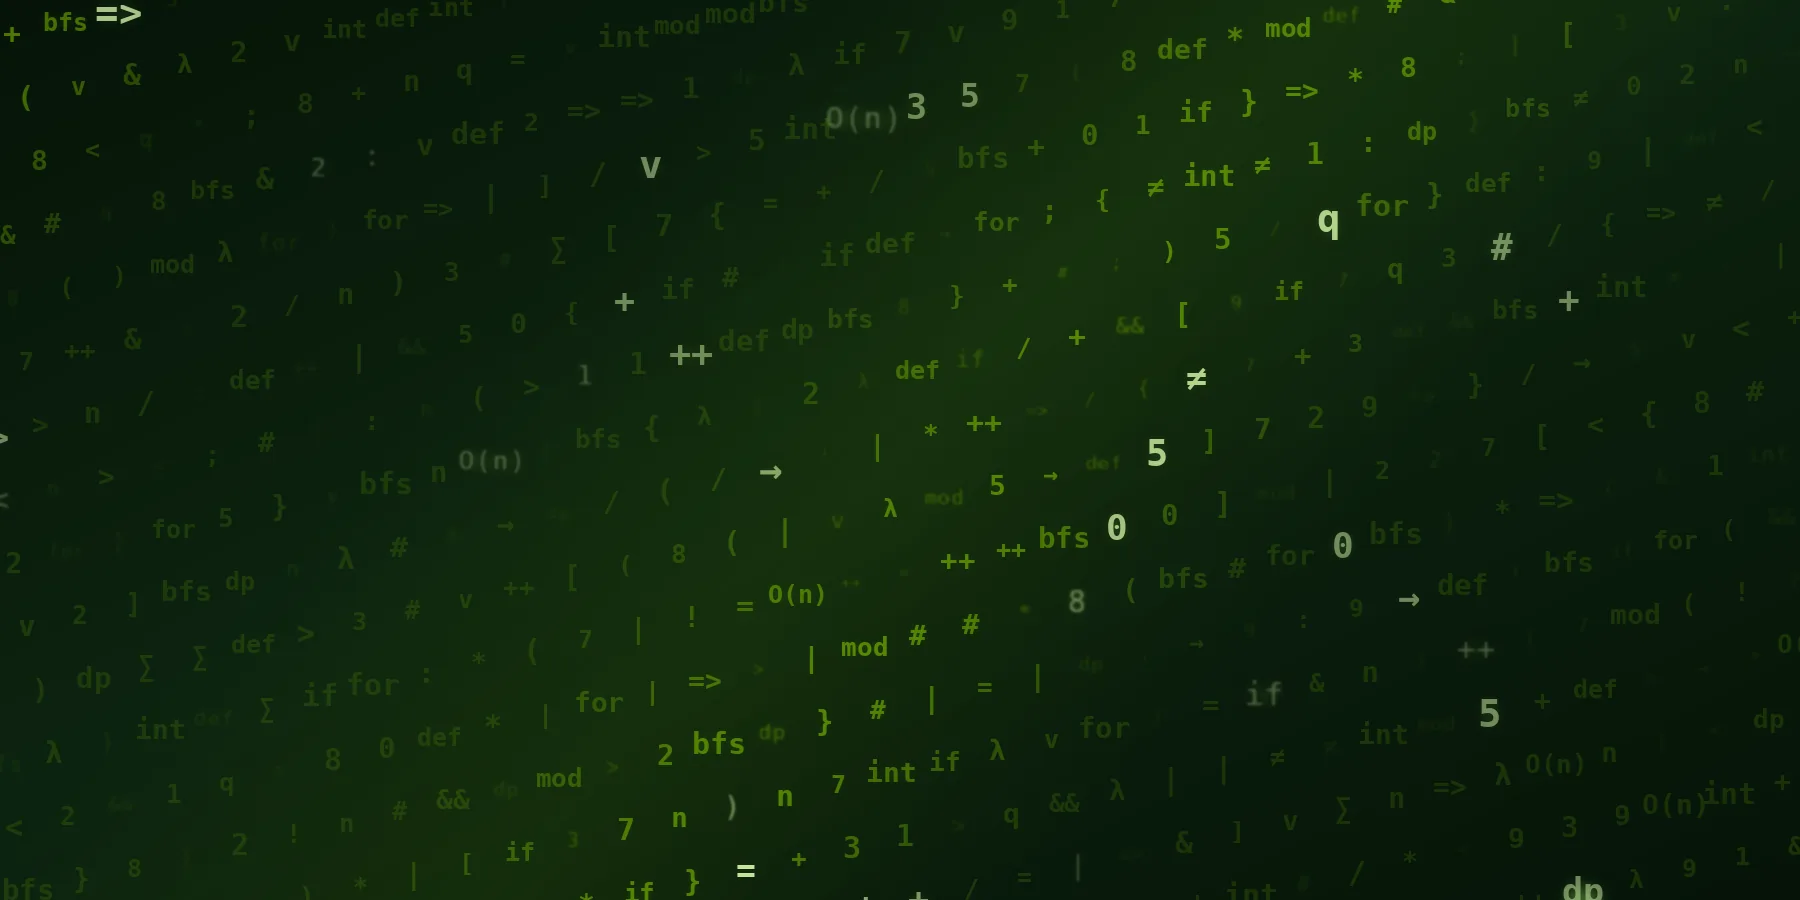
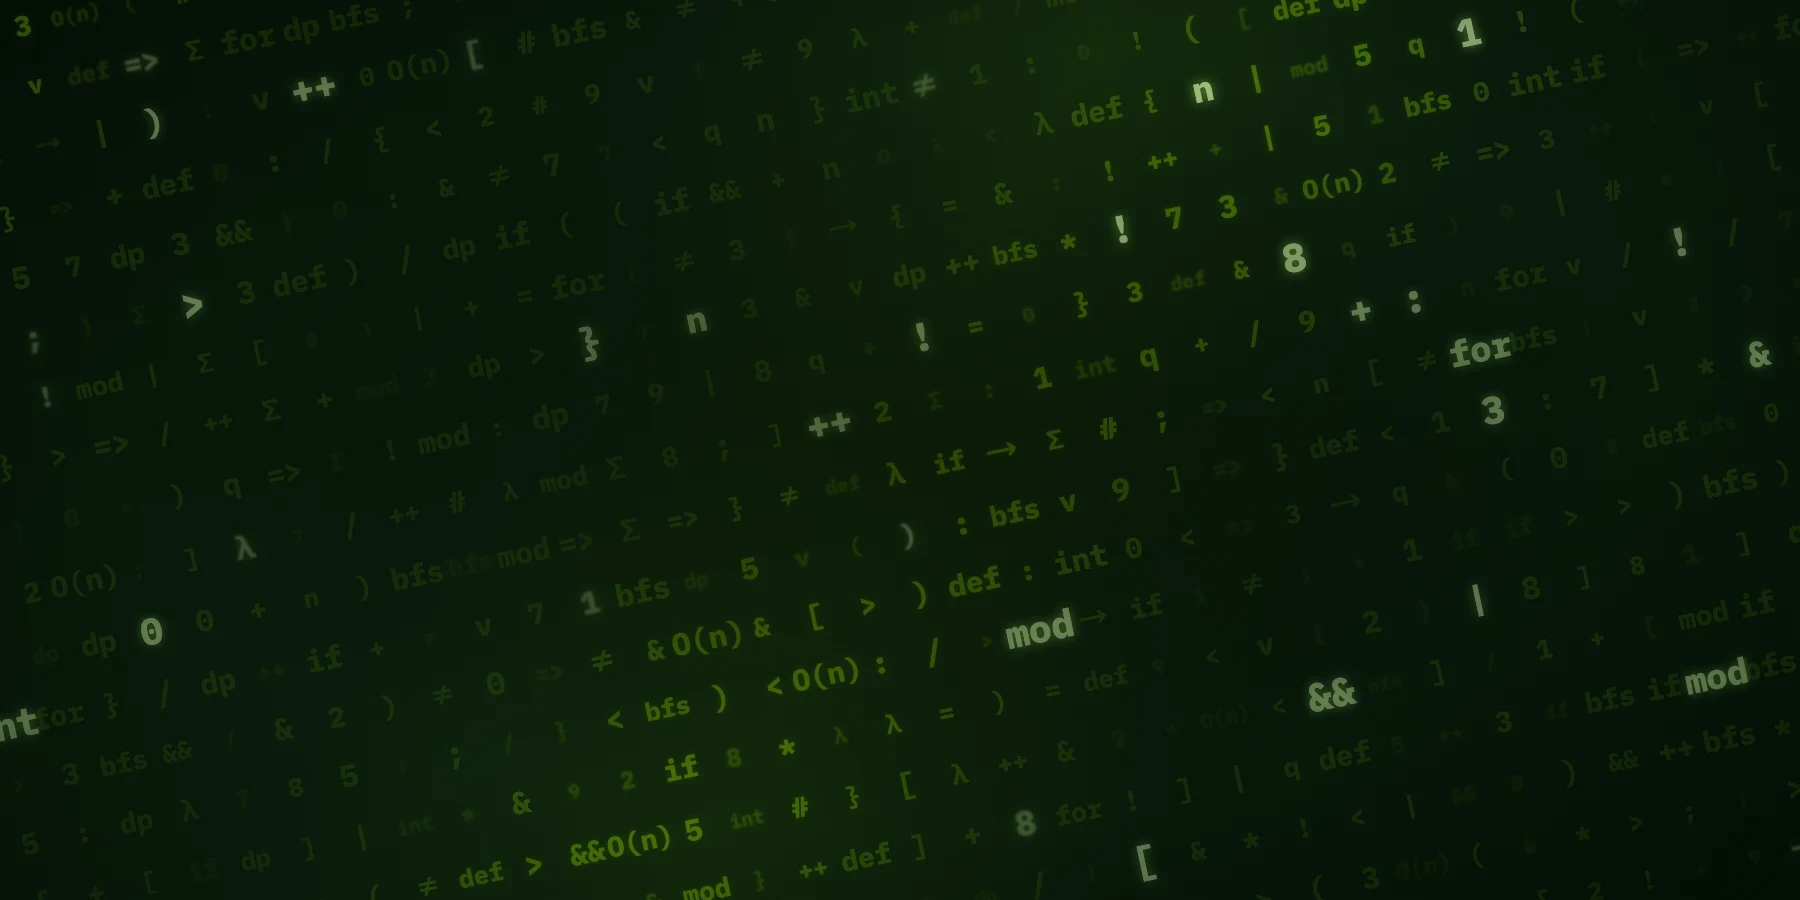
preview: 畫布版晶格底圖、字重 900、學校補齊

diff --git a/src/styles/global.css b/src/styles/global.css
@@ -214,7 +214,7 @@ p:not(.hero-title):not(.hero-status) a,.prose li a,.meta a{text-decoration:under
 .hero-photo-body .kicker{font-family:var(--font-mono);letter-spacing:.18em;text-transform:uppercase;font-size:var(--fs-2);color:rgba(255,255,255,.8);margin:0 0 8px}
 .hero-photo-body .hero-title{font-size:60px;color:#fff;margin-bottom:16px;text-shadow:0 2px 12px rgba(0,0,0,.5)}
 .hero-photo-body .hero-title a,.hero-photo-body .hero-title .slot{color:#fff}
-.hero-title .ytp{font-family:var(--font-mono);font-weight:700;letter-spacing:-.02em;margin-right:.12em}
+.hero-title .ytp{font-family:var(--font-mono);font-weight:700;letter-spacing:.06em;margin-right:.05em}
 .hero-photo-body .hero-title .slot{color:var(--logo-lime)}
 .hero-photo-body .hero-status{color:#fff;font-size:var(--fs-5);text-shadow:0 1px 8px rgba(0,0,0,.5)}
 .hero-photo-body .lead{max-width:640px;margin-left:auto;margin-right:auto}

diff --git a/src/content/projects/2024-15.md b/src/content/projects/2024-15.md
@@ -13,11 +13,11 @@ tags:
 - GeoGebra
 members:
 - name: 詹O崴
-  school: （學校待補）
+  school: 建國中學
 - name: 廖O翔
-  school: （學校待補）
+  school: 建國中學
 - name: 顏O喬
-  school: （學校待補）
+  school: 建國中學
 overseasReps: []
 github: https://github.com/willy1006-fatman/Geometry-Visualizer
 demo: https://www.youtube.com/watch?v=xg4Kvtuuc0I

diff --git a/src/content/projects/2024-07.md b/src/content/projects/2024-07.md
@@ -12,11 +12,11 @@ tags:
 - 教育
 members:
 - name: 陳O霖
-  school: （學校待補）
+  school: 彰化高中
 - name: 王O邑
-  school: （學校待補）
+  school: 彰化高中
 - name: 黃O哲
-  school: （學校待補）
+  school: 彰化高中
 overseasReps: []
 github: https://github.com/MelonHiker/cppg
 demo: https://www.youtube.com/watch?v=80WoCrHdNjk

diff --git a/src/content/projects/2024-12.md b/src/content/projects/2024-12.md
@@ -12,11 +12,11 @@ tags:
 - 資料分析
 members:
 - name: 龔O恩
-  school: （學校待補）
+  school: 台中一中
 - name: 吳O澤
-  school: （學校待補）
+  school: 中興高中
 - name: 龔O恩
-  school: （學校待補）
+  school: 台中女中
 overseasReps: []
 github: https://github.com/Darren0724/LLM-CF-Tools
 demo: ''

diff --git a/src/content/projects/2024-01.md b/src/content/projects/2024-01.md
@@ -12,9 +12,9 @@ tags:
 - 音樂
 members:
 - name: 蕭O鴻
-  school: （學校待補）
+  school: 武陵高中
 - name: 鄭O元
-  school: （學校待補）
+  school: 師大附中
 - name: 陳O樂
   school: 建國中學
 overseasReps: []

diff --git a/src/content/projects/2024-09.md b/src/content/projects/2024-09.md
@@ -17,7 +17,7 @@ members:
 - name: 賴O安
   school: 建國中學
 - name: 陳O臻
-  school: （學校待補）
+  school: 建國中學
 overseasReps: []
 github: https://github.com/cy-cheng/patienz
 demo: https://youtu.be/X9-HKO5-rcA
